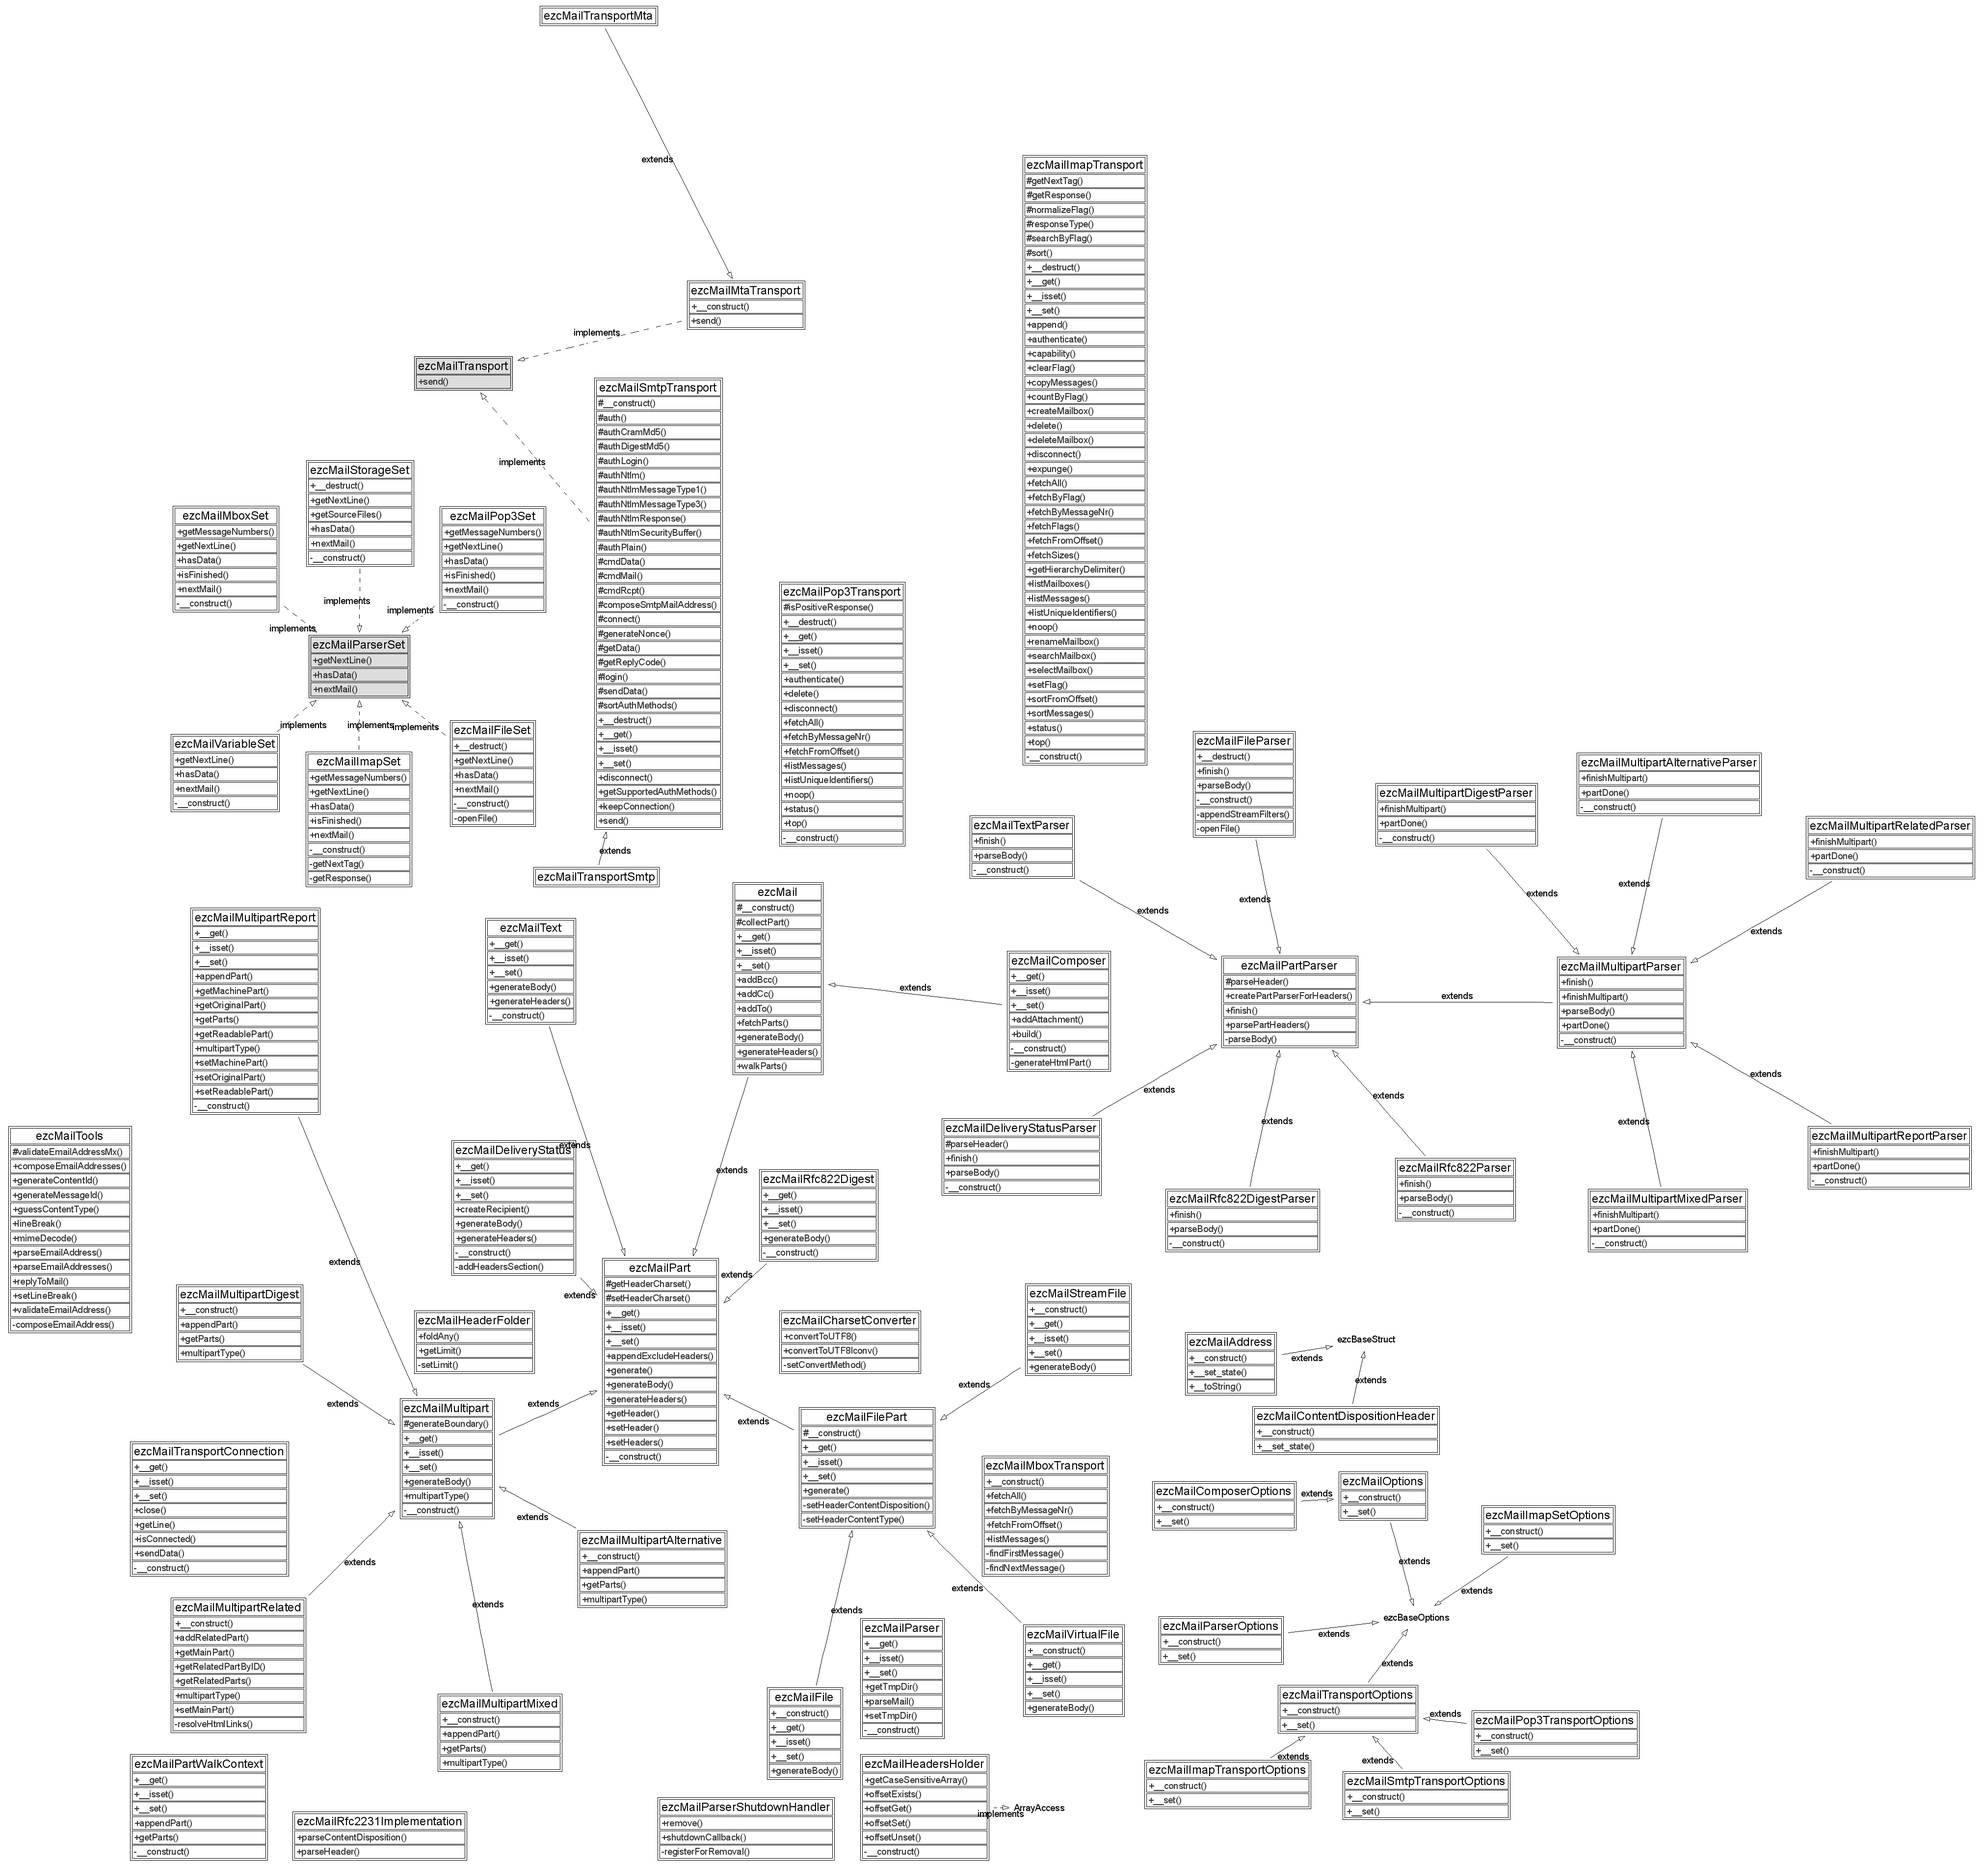
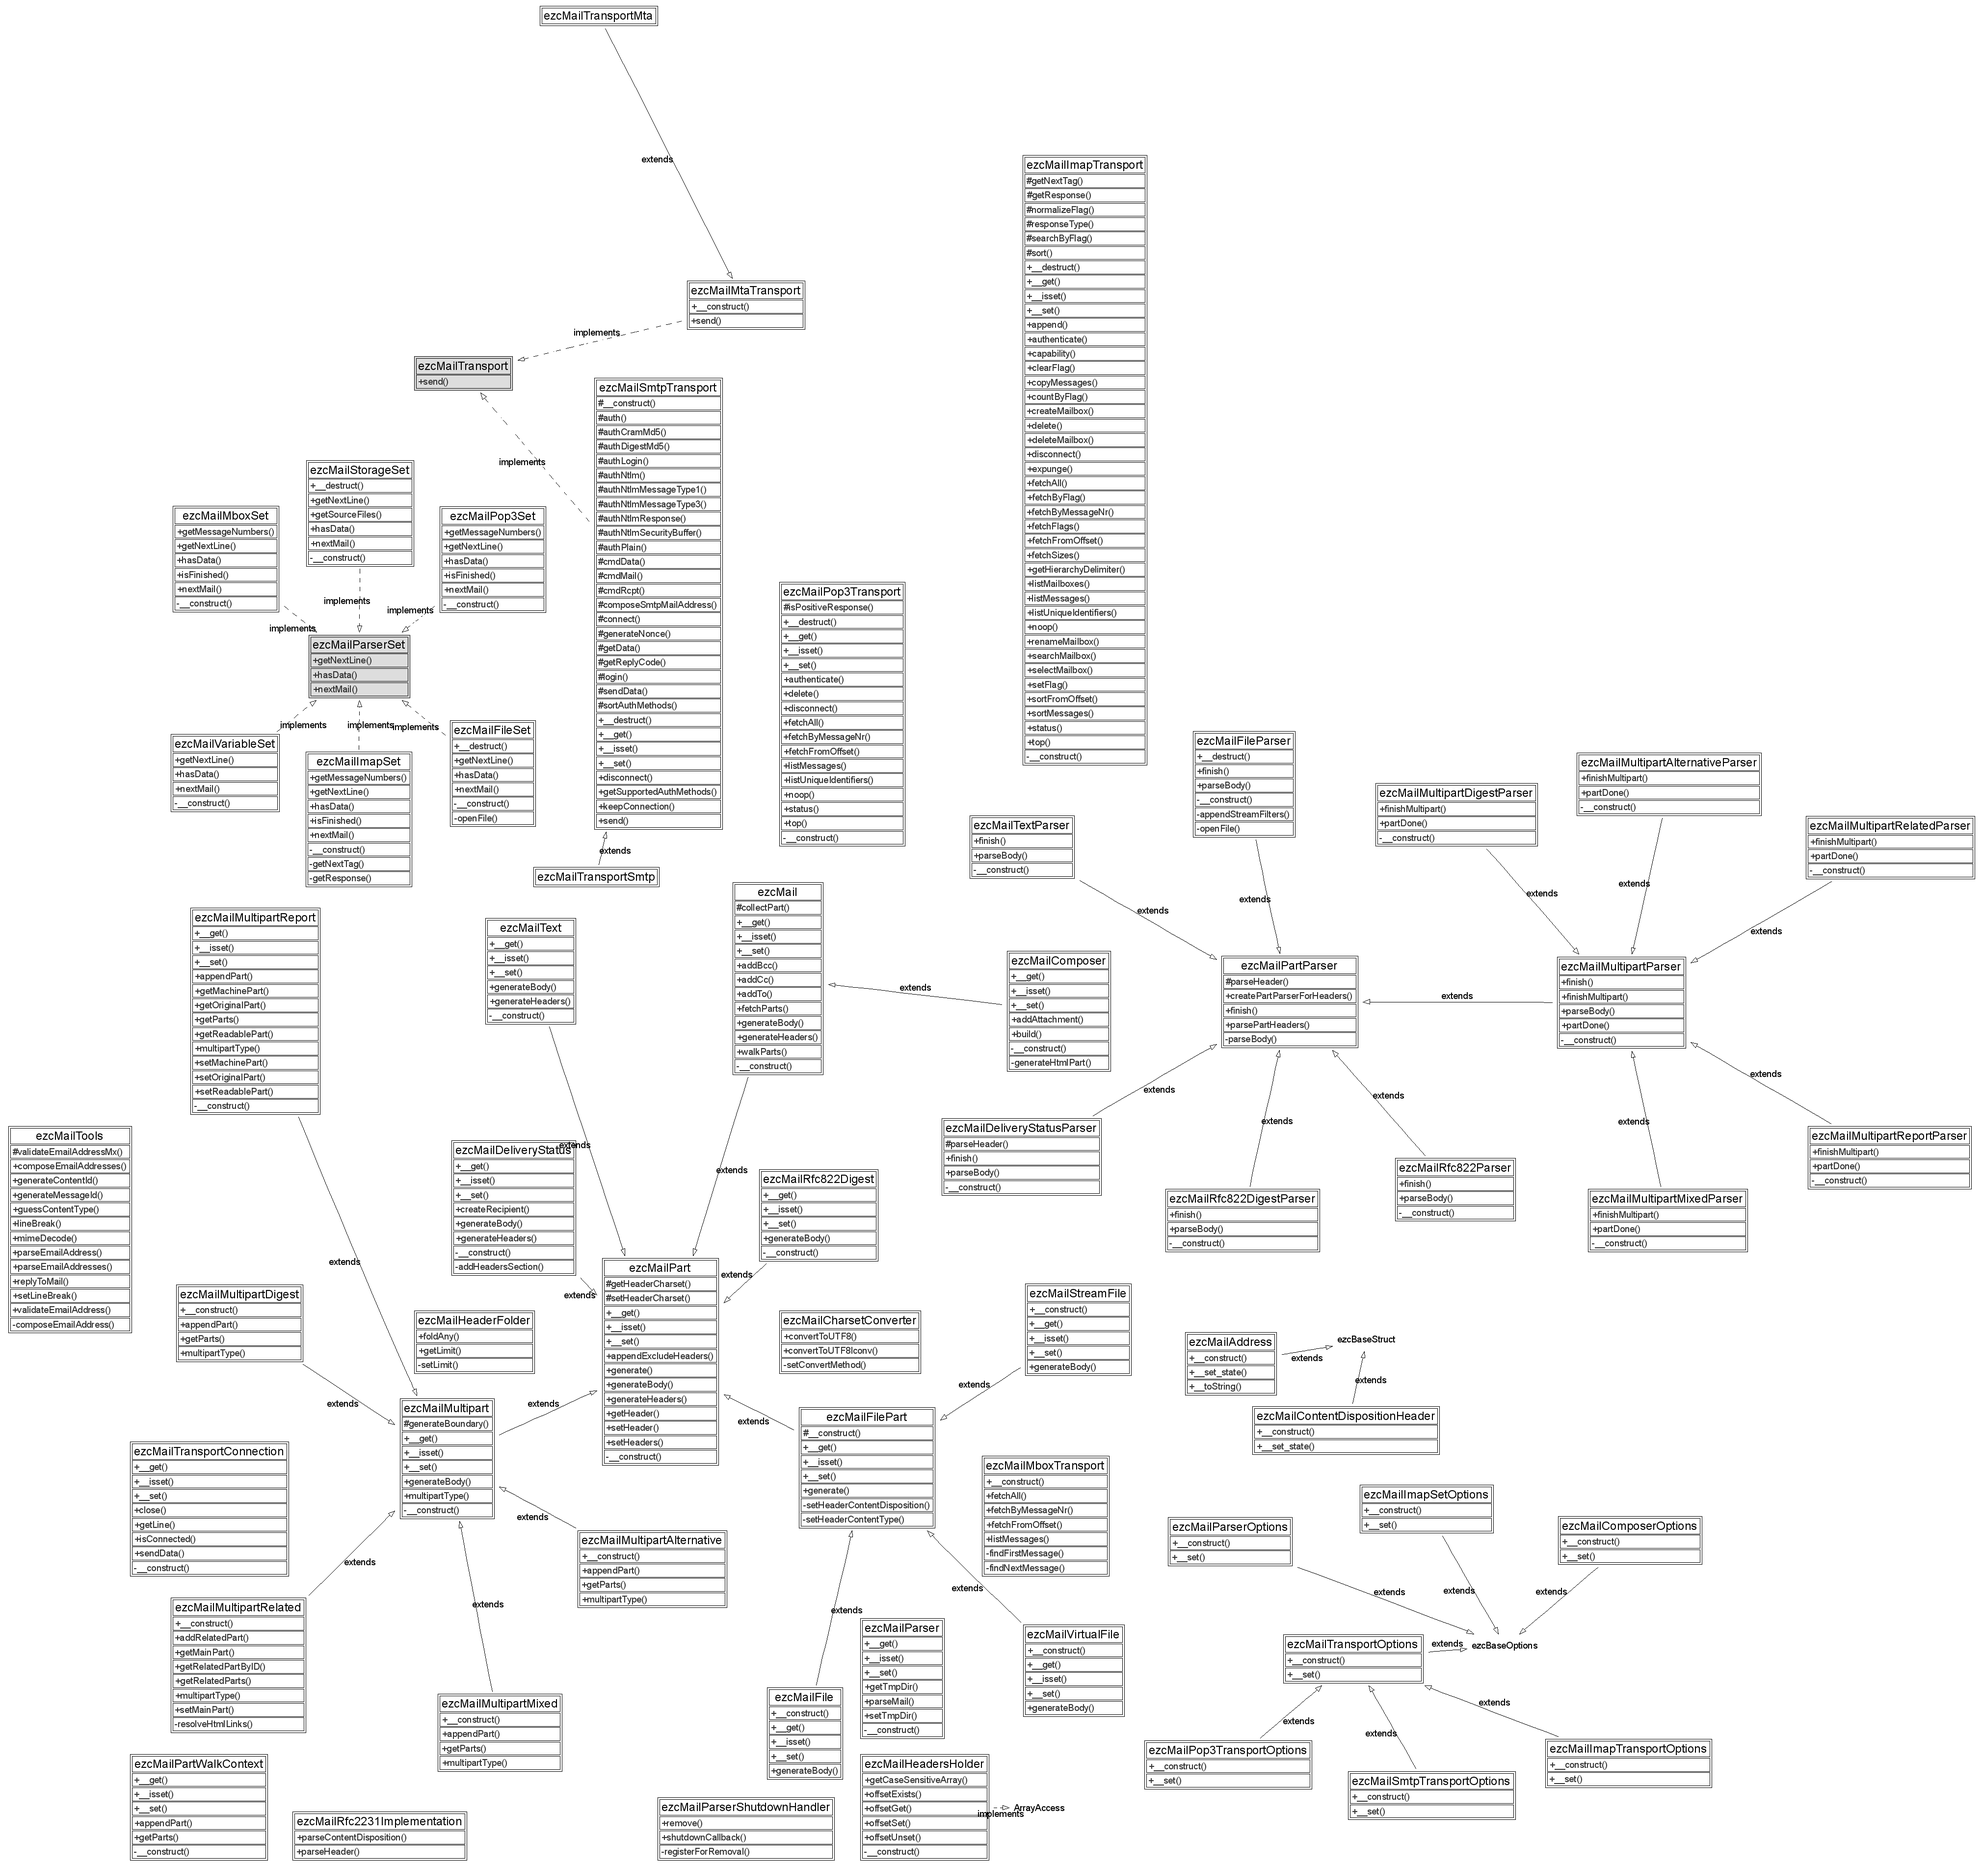
- Removed the superfluous ezcMailOptions class.
git-svn-id: https://svn.apache.org/repos/asf/incubator/zetacomponents/trunk@975096 13f79535-47bb-0310-9956-ffa450edef68

diff --git a/Mail/src/mail.php b/Mail/src/mail.php
@@ -60,10 +60,6 @@
  *                                       sent as Unix Timestamp.
  * @property ezcMailAddress        $returnPath Contains the Return-Path address as an
  *                                             ezcMailAddress object.
- * @property ezcMailOptions        $options
- *                                       Options for creating mail. There are none
- *                                       for ezcMail, but {@link ezcMailComposer} uses
- *                                       options. See {@link ezcMailComposerOptions}.
  *
  * @apichange Remove the support for the deprecated property messageID.
  *
@@ -106,18 +102,9 @@ class ezcMail extends ezcMailPart
     private $properties = array();
 
     /**
-     * Holds the options for this class.
-     *
-     * @var ezcMailOptions
-     */
-    protected $options;
-
-    /**
      * Constructs an empty ezcMail object.
-     *
-     * @param ezcMailOptions $options
      */
-    public function __construct( ezcMailOptions $options = null )
+    public function __construct()
     {
         parent::__construct();
 
@@ -130,13 +117,6 @@ class ezcMail extends ezcMailPart
         $this->properties['body'] = null;
         $this->properties['messageId'] = null;
         $this->properties['returnPath'] = null;
-
-        if ( $options === null )
-        {
-            $options = new ezcMailOptions();
-        }
-
-        $this->options = $options;
     }
 
     /**
@@ -195,15 +175,6 @@ class ezcMail extends ezcMailPart
                 $this->properties['returnPath'] = $value;
                 break;
 
-            case 'options':
-                if ( !$value instanceof ezcMailOptions )
-                {
-                    throw new ezcBaseValueException( $name, $value, 'ezcMailOptions' );
-                }
-
-                $this->options = $value;
-                break;
-
             default:
                 parent::__set( $name, $value );
                 break;
@@ -242,9 +213,6 @@ class ezcMail extends ezcMailPart
             case 'timestamp':
                 return strtotime( $this->getHeader( "Date" ) );
 
-            case 'options':
-                return $this->options;
-
             default:
                 return parent::__get( $name );
         }
@@ -277,9 +245,6 @@ class ezcMail extends ezcMailPart
 
             case 'timestamp':
                 return $this->getHeader( "Date" ) != null;
-
-            case 'options':
-                return isset( $this->options );
 
             default:
                 return parent::__isset( $name );

diff --git a/Mail/src/composer.php b/Mail/src/composer.php
@@ -86,6 +86,8 @@
  * @property string $charset
  *           Contains the character set for both $plainText and $htmlText.
  *           Default value is 'us-ascii'.
+ * @property ezcMailComposerOptions $options
+ *           Options for composing mail. See {@link ezcMailComposerOptions}.
  *
  * @package Mail
  * @version //autogen//
@@ -101,6 +103,13 @@ class ezcMailComposer extends ezcMail
      * @var array(string)
      */
     private $attachments = array();
+
+    /**
+     * Holds the options for this class.
+     *
+     * @var ezcMailOptions
+     */
+    protected $options;
 
     /**
      * Holds the properties of this class.
@@ -124,7 +133,9 @@ class ezcMailComposer extends ezcMail
             $options = new ezcMailComposerOptions();
         }
 
-        parent::__construct( $options );
+        $this->options = $options;
+
+        parent::__construct();
     }
 
     /**
@@ -144,6 +155,15 @@ class ezcMailComposer extends ezcMail
             case 'htmlText':
             case 'charset':
                 $this->properties[$name] = $value;
+                break;
+
+            case 'options':
+                if ( !$value instanceof ezcMailOptions )
+                {
+                    throw new ezcBaseValueException( $name, $value, 'ezcMailOptions' );
+                }
+
+                $this->options = $value;
                 break;
 
             default:
@@ -169,6 +189,9 @@ class ezcMailComposer extends ezcMail
             case 'charset':
                 return $this->properties[$name];
 
+            case 'options':
+                return $this->options;
+
             default:
                 return parent::__get( $name );
         }
@@ -189,6 +212,9 @@ class ezcMailComposer extends ezcMail
             case 'htmlText':
             case 'charset':
                 return isset( $this->properties[$name] );
+
+            case 'options':
+                return isset( $this->options );
 
             default:
                 return parent::__isset( $name );

diff --git a/Mail/src/mail_autoload.php b/Mail/src/mail_autoload.php
@@ -24,7 +24,6 @@ return array(
     'ezcMailMtaTransport'               => 'Mail/transports/mta/mta_transport.php',
     'ezcMailMultipart'                  => 'Mail/parts/multipart.php',
     'ezcMailMultipartParser'            => 'Mail/parser/parts/multipart_parser.php',
-    'ezcMailOptions'                    => 'Mail/options/mail_options.php',
     'ezcMailParserSet'                  => 'Mail/parser/interfaces/parser_set.php',
     'ezcMailSmtpTransport'              => 'Mail/transports/smtp/smtp_transport.php',
     'ezcMailTransportOptions'           => 'Mail/options/transport_options.php',

diff --git a/Mail/tests/composer_test.php b/Mail/tests/composer_test.php
@@ -33,10 +33,6 @@ class ezcMailComposerTest extends ezcTestCase
                                   array( "That thing's WATCHING me... Good thing I'm naturally PHOTOGENIC!" ) );
         $this->assertSetProperty( $this->mail, 'charset',
                                   array( "us-ascii" ) );
-
-        $this->assertSetPropertyFails( $this->mail, 'options', array( 'wrong value' ) );
-        $this->assertSetProperty( $this->mail, 'options', array( new ezcMailComposerOptions() ) );
-        $this->assertEquals( true, isset( $this->mail->options ) );
     }
 
     /**

diff --git a/Mail/src/options/composer_options.php b/Mail/src/options/composer_options.php
@@ -33,7 +33,7 @@
  * @package Mail
  * @version //autogen//
  */
-class ezcMailComposerOptions extends ezcMailOptions
+class ezcMailComposerOptions extends ezcBaseOptions
 {
     /**
      * Constructs an object with the specified values.
@@ -76,7 +76,7 @@ class ezcMailComposerOptions extends ezcMailOptions
                 break;
 
             default:
-                parent::__set( $propertyName, $propertyValue );
+                throw new ezcBasePropertyNotFoundException( $propertyName );
         }
     }
 }
